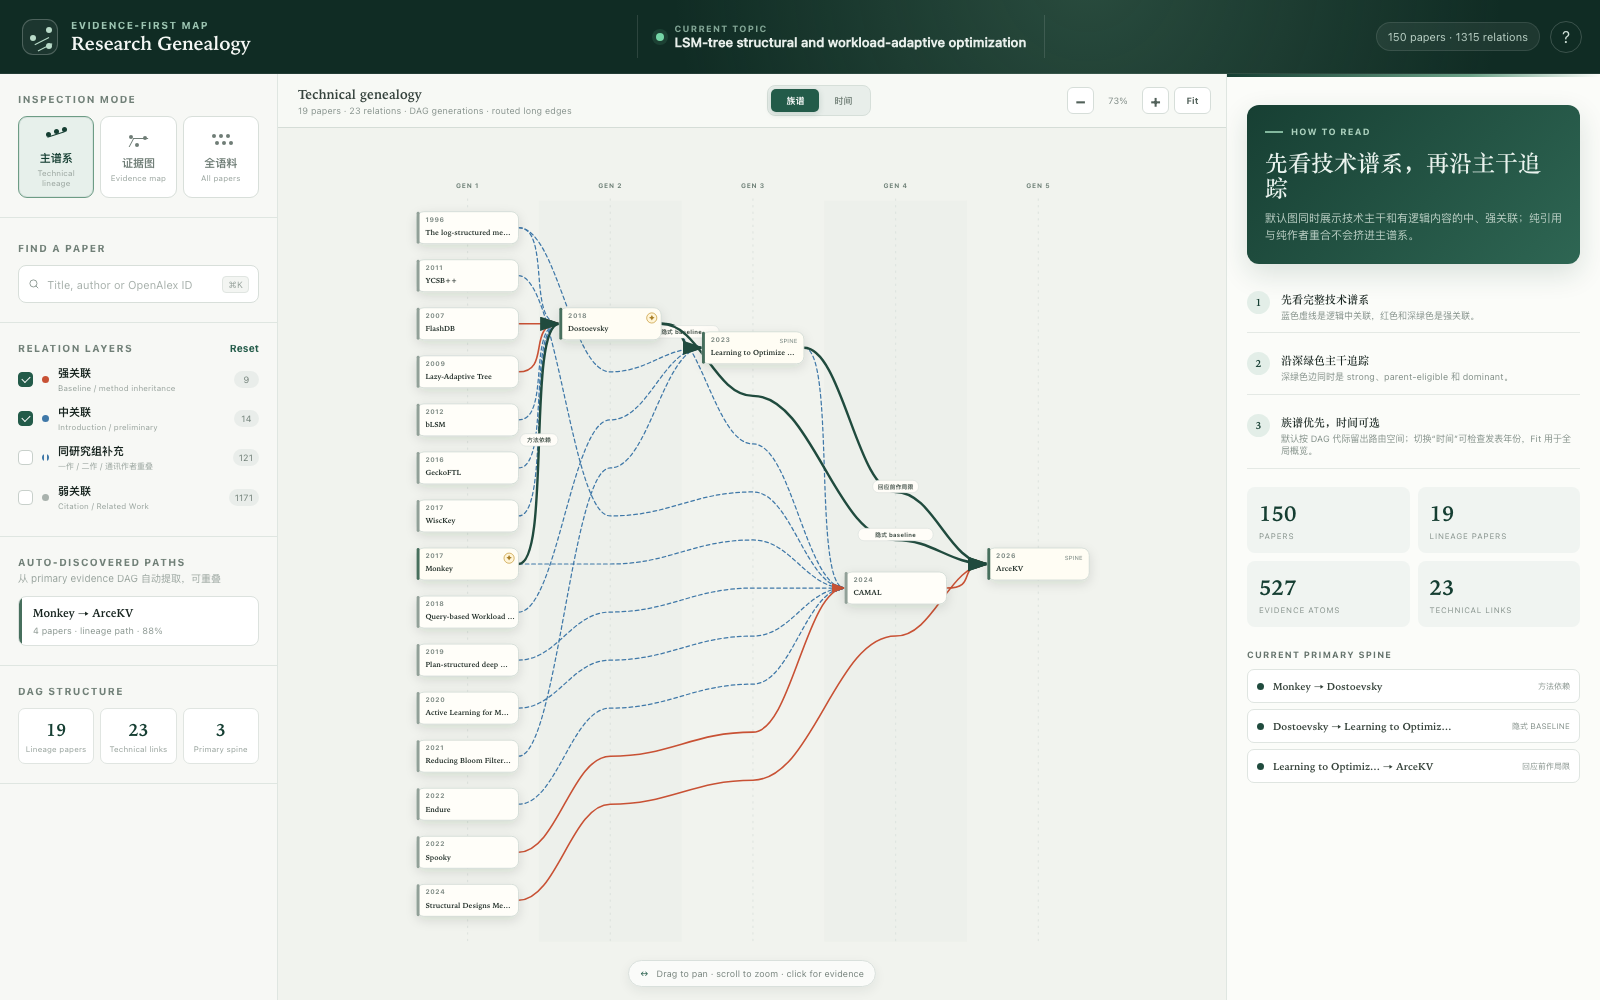
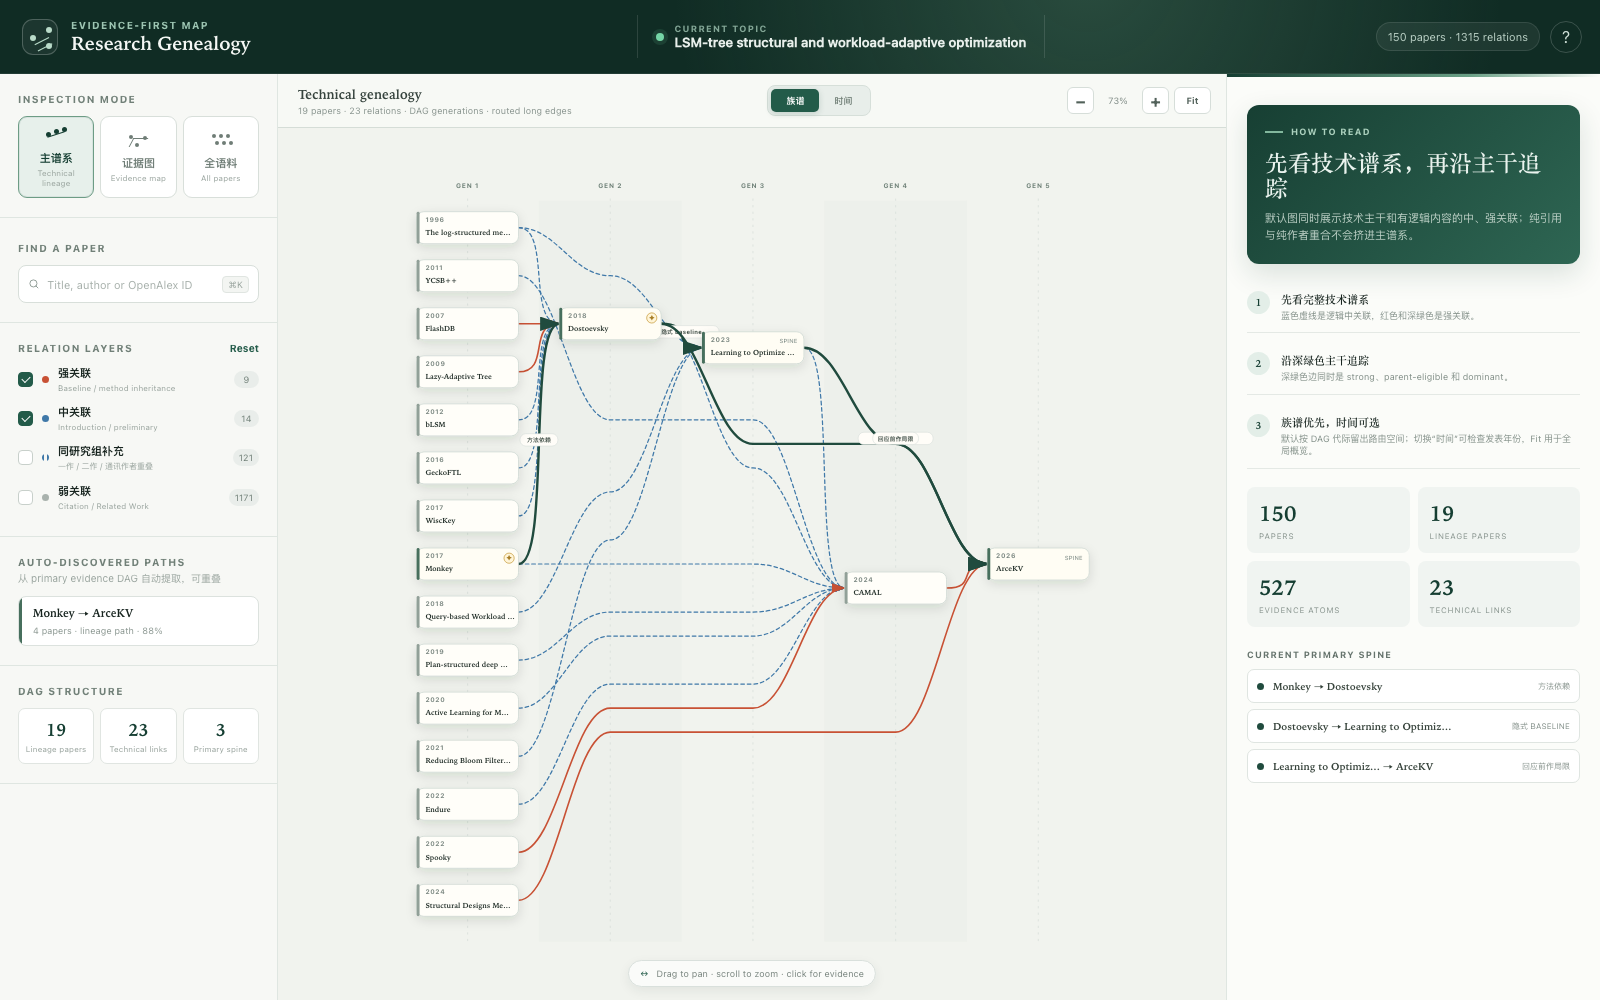
fix: route long edges around paper nodes

diff --git a/web/app.js b/web/app.js
@@ -468,6 +468,49 @@
     return margin + index * (rowSlots - 1 - margin * 2) / (count - 1);
   }
 
+  function assignRouteLanes(edges, routePoints, positions, layers, metrics, rowSlots, style) {
+    const result = new Map();
+    const laneUsage = new Map();
+    const halfHeight = style === "card" ? 29 : style === "compact" ? 22 : 8;
+    const candidates = [];
+    for (let slot = 0; slot <= rowSlots - 1; slot += 0.5) {
+      candidates.push(metrics.top + slot * metrics.verticalStep);
+    }
+    [...edges]
+      .sort((left, right) => (routePoints.get(edgeKey(right))?.length || 0) - (routePoints.get(edgeKey(left))?.length || 0))
+      .forEach((edge) => {
+        const routeIds = routePoints.get(edgeKey(edge)) || [];
+        if (!routeIds.length) return;
+        const crossedLayers = new Set(
+          routeIds.map((id) => positions.get(id)?.layer).filter(Number.isFinite)
+        );
+        const source = positions.get(edge.source);
+        const target = positions.get(edge.target);
+        const preferred = ((source?.y || 0) + (target?.y || 0)) / 2;
+        let best = null;
+        candidates.forEach((candidate) => {
+          let collisions = 0;
+          crossedLayers.forEach((layerIndex) => {
+            (layers[layerIndex]?.nodes || []).forEach((node) => {
+              if (node.isDummy) return;
+              const position = positions.get(node.paper_id);
+              if (position && Math.abs(position.y - candidate) < halfHeight + 11) collisions += 1;
+            });
+          });
+          const laneKey = Math.round(candidate / (metrics.verticalStep / 2));
+          const score = collisions * 10000
+            + Math.abs(candidate - preferred)
+            + (laneUsage.get(laneKey) || 0) * 42;
+          if (!best || score < best.score) best = { y: candidate, laneKey, score };
+        });
+        if (best) {
+          result.set(edgeKey(edge), best.y);
+          laneUsage.set(best.laneKey, (laneUsage.get(best.laneKey) || 0) + 1);
+        }
+      });
+    return result;
+  }
+
   function buildTimelineLayout(nodes, edges, style) {
     const knownYears = state.nodes.map((node) => node.year).filter(Number.isFinite);
     const fallbackYear = knownYears.length ? Math.max(...knownYears) + 1 : 1;
@@ -484,7 +527,35 @@
         label: year === fallbackYear ? "N/A" : String(year),
         nodes: layerNodes.sort((a, b) => a.title.localeCompare(b.title)),
       }));
-    minimizeLayerCrossings(layers, edges);
+    const layerByPaper = new Map();
+    layers.forEach((layer, index) => {
+      layer.nodes.forEach((node) => layerByPaper.set(node.paper_id, index));
+    });
+    const routePoints = new Map();
+    const segments = [];
+    edges.forEach((edge, edgeIndex) => {
+      const sourceLayer = layerByPaper.get(edge.source);
+      const targetLayer = layerByPaper.get(edge.target);
+      let previous = edge.source;
+      const routeIds = [];
+      if (Number.isFinite(sourceLayer) && Number.isFinite(targetLayer) && sourceLayer !== targetLayer) {
+        const direction = targetLayer >= sourceLayer ? 1 : -1;
+        for (
+          let layerIndex = sourceLayer + direction;
+          layerIndex !== targetLayer;
+          layerIndex += direction
+        ) {
+          const dummyId = `__time_route__${edgeIndex}:${layerIndex}`;
+          layers[layerIndex].nodes.push({ paper_id: dummyId, title: "", isDummy: true });
+          segments.push({ ...edge, source: previous, target: dummyId });
+          routeIds.push(dummyId);
+          previous = dummyId;
+        }
+      }
+      segments.push({ ...edge, source: previous, target: edge.target });
+      routePoints.set(edgeKey(edge), routeIds);
+    });
+    minimizeLayerCrossings(layers, segments);
 
     const metrics = layoutMetrics(style, "timeline");
     const { horizontalStep, verticalStep, left, top } = metrics;
@@ -500,17 +571,27 @@
         positions.set(node.paper_id, { x, y: top + slot * verticalStep, layer: layerIndex, row: slot });
       });
     });
+    const routeLanes = assignRouteLanes(
+      edges,
+      routePoints,
+      positions,
+      layers,
+      metrics,
+      rowSlots,
+      style,
+    );
     return {
       positions,
       layers,
       layerPositions,
-      routePoints: new Map(),
+      routePoints,
+      routeLanes,
       width: Math.max(420, left * 2 + Math.max(0, layers.length - 1) * horizontalStep),
       height: Math.max(430, top * 2 + (rowSlots - 1) * verticalStep),
       style,
       cards: style !== "dot",
       mode: "timeline",
-      method: "weighted_layered_barycentric",
+      method: "chronological_layers_with_virtual_edge_routes",
     };
   }
 
@@ -594,11 +675,21 @@
         });
       });
     });
+    const routeLanes = assignRouteLanes(
+      edges,
+      routePoints,
+      positions,
+      layers,
+      { horizontalStep, verticalStep, left, top },
+      rowSlots,
+      style,
+    );
     return {
       positions,
       layers,
       layerPositions,
       routePoints,
+      routeLanes,
       width: Math.max(520, left * 2 + Math.max(0, layers.length - 1) * horizontalStep),
       height: Math.max(500, top * 2 + (rowSlots - 1) * verticalStep),
       style,
@@ -688,8 +779,12 @@
     const horizontalGap = Math.abs(target.x - source.x);
     const offset = layout.style === "card" ? 91 : layout.style === "compact" ? 70 : 7;
     const direction = target.x >= source.x ? 1 : -1;
+    const routeLane = layout.routeLanes?.get(edgeKey(edge));
     const route = (layout.routePoints.get(edgeKey(edge)) || [])
-      .map((id) => layout.positions.get(id))
+      .map((id) => {
+        const position = layout.positions.get(id);
+        return position && Number.isFinite(routeLane) ? { ...position, y: routeLane } : position;
+      })
       .filter(Boolean);
     if (route.length) {
       const points = [

diff --git a/tests/test_inspector_frontend.py b/tests/test_inspector_frontend.py
@@ -93,6 +93,7 @@ class InspectorFrontendTest(unittest.TestCase):
             "minimizeLayerCrossings",
             "buildTopologyLayout",
             "buildTimelineLayout",
+            "assignRouteLanes",
             "auto_branches",
         ):
             self.assertIn(behavior, script)

diff --git a/reports/frontend_inspector.md b/reports/frontend_inspector.md
@@ -31,6 +31,7 @@ Current payload:
 | Clear default genealogy | Nodes are layered by DAG generation; virtual routing nodes steer long edges through open lanes instead of through paper cards. |
 | Time-aware evolution | A separate timeline layout places publication years on the x-axis and retains at least six vertical lanes. |
 | Cluster-free layout | Weighted barycentric sweeps reorder real and routing nodes to reduce crossings; dominant edges receive the highest layout weight. |
+| Avoid false intermediate ancestry | Long-edge tracks are collision-checked against real cards in every crossed layer and remain horizontally stable between their endpoints. |
 | Semantic relation levels | Strong, medium, and weak layers have separate filters and visual encodings. |
 | Research-group context | Standalone key-author-overlap links use a thinner dotted treatment and a separate layer that is off by default. Logical evidence remains the primary relation when both kinds exist. |
 | Inspectable relationships | Clicking an edge exposes relation types, confidence, parent eligibility, section, role, citation marker, entity, PDF, and verbatim passage. |

diff --git a/README.md b/README.md
@@ -237,6 +237,9 @@ Then open <http://127.0.0.1:4174/web/>. The inspector provides:
   long edges; the optional timeline view uses publication years on the x-axis;
 - both layouts reserve multiple vertical lanes even when a year or generation
   contains only one or two papers, keeping edges from collapsing behind cards;
+- long edges receive stable obstacle-aware lanes: routing checks every
+  intermediate layer for paper-card collisions and penalizes already crowded
+  tracks, avoiding the false visual impression of an A→B→C chain;
 - readable initial navigation for larger graphs: compact labeled cards stay at
   a useful scale and the viewport starts around the primary spine; `Fit` is an
   explicit overview action rather than the default;

diff --git a/web/README.md b/web/README.md
@@ -22,8 +22,9 @@ The UI deliberately does not expose expert benchmarks or legacy solution
 clusters, and neither is included in its generated payload. Its default layout
 is a cluster-free DAG-generation view with explicit long-edge routing. A
 second layout places publication years on the x-axis while retaining expanded
-vertical lanes. The initial viewport keeps labeled cards at a readable size;
-use `Fit` for a compressed whole-graph overview.
+vertical lanes. Long relations use stable horizontal tracks selected to avoid
+paper cards in every intermediate layer. The initial viewport keeps labeled
+cards at a readable size; use `Fit` for a compressed whole-graph overview.
 
 Run the UI from the repository root:
 
